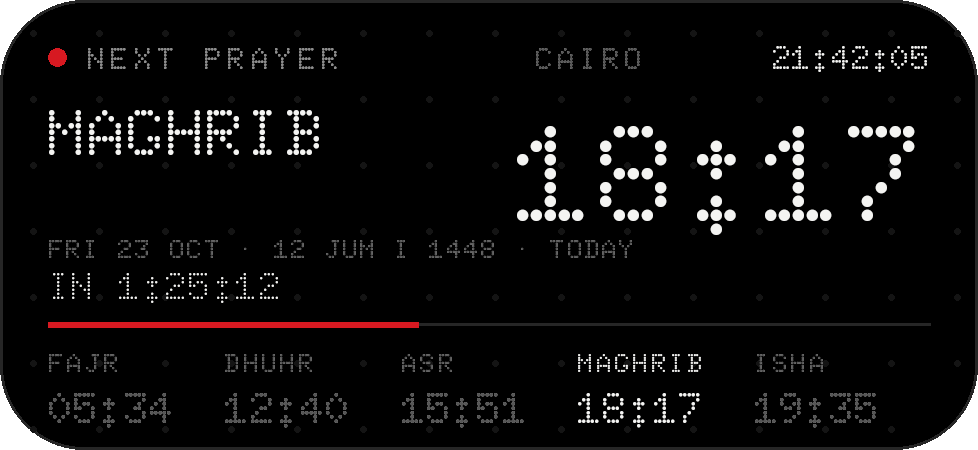
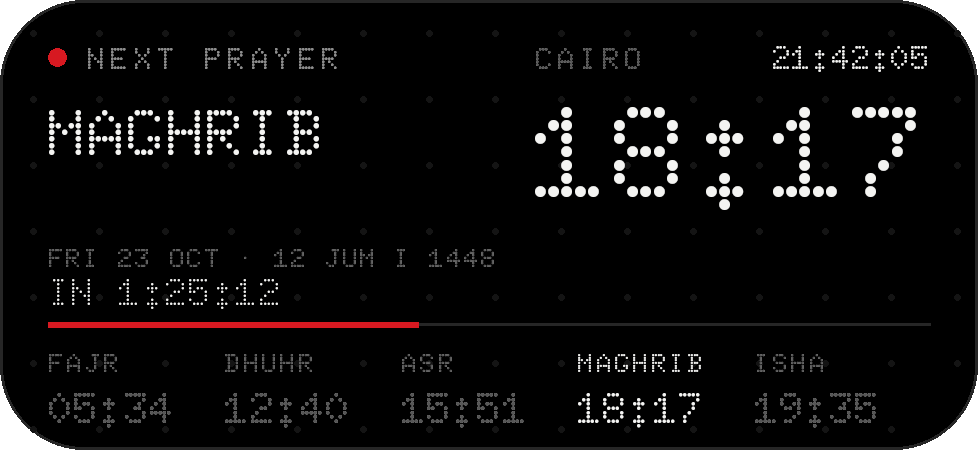
Widget: clean up hero layout and drop TODAY suffix

diff --git a/app/src/main/java/com/dotpray/app/widget/WidgetRenderer.java b/app/src/main/java/com/dotpray/app/widget/WidgetRenderer.java
@@ -105,9 +105,12 @@ public final class WidgetRenderer {
         // width. Lift the big next-prayer time above it instead of letting the
         // two overlap on the right.
         float nameBase = divider - ink.dp(56);
-        float clockBase = divider - ink.dp(34);
-        float metaBase = divider - ink.dp(22);
-        float countBase = divider - ink.dp(8);
+        // Keep the hero time slightly above the meta line. The meta line is
+        // allowed to run under it horizontally, so it needs a clear vertical
+        // gap rather than a shorter string.
+        float clockBase = divider - ink.dp(42);
+        float metaBase = divider - ink.dp(19);
+        float countBase = divider - ink.dp(6);
 
         c.drawCircle(pad + ink.dp(3), ink.dp(19), ink.dp(3), ink.fill(ACCENT));
         ink.text("NEXT PRAYER", pad + ink.dp(13), header,
@@ -130,7 +133,7 @@ public final class WidgetRenderer {
         Live countdownSeconds = countdownLine(ink, snapshot, now, pad, countBase, 13f,
                 liveSeconds, scale, offsetX, offsetY);
 
-        float clockSize = 46;
+        float clockSize = 44;
         String period = use24 ? "" : Format.meridiem(snapshot.next.local);
         String time = use24 ? Format.time24(snapshot.next.local)
                 : Format.time12(snapshot.next.local);
@@ -154,8 +157,8 @@ public final class WidgetRenderer {
             boolean active = prayers[i] == snapshot.next.prayer;
             PrayerCalculator.Entry entry = snapshot.today.get(i);
             // After Isha the next prayer is tomorrow's Fajr. Keep the strip
-            // useful by lighting its Fajr slot with that upcoming time; the
-            // hero's meta line above says TOMORROW.
+            // useful by lighting its Fajr slot with that upcoming time. The
+            // meta line already shows tomorrow's date.
             if (active && snapshot.nextIsTomorrow) entry = snapshot.next;
             ink.text(prayers[i].label.toUpperCase(Locale.US), x, divider + ink.dp(16),
                     ink.label(9), active ? ink.fg : ink.faint, 0.08f, Paint.Align.LEFT);
@@ -331,10 +334,9 @@ public final class WidgetRenderer {
         String date = DateTimeFormatter.ofPattern("EEE d MMM", Locale.US)
                 .format(snapshot.next.local).toUpperCase(Locale.US);
         String hijri = hijri(snapshot);
-        String status = snapshot.nextIsTomorrow ? "TOMORROW" : "TODAY";
-        return hijri.isEmpty()
-                ? date + " \u00b7 " + status
-                : date + " \u00b7 " + hijri + " \u00b7 " + status;
+        // No TODAY / TOMORROW suffix: it ran under the hero time and made the
+        // line feel crowded. Tomorrow is already clear from the date itself.
+        return hijri.isEmpty() ? date : date + " \u00b7 " + hijri;
     }
 
     private static String smallMeta(PrayerClock.Snapshot snapshot) {

diff --git a/tools/render_preview.py b/tools/render_preview.py
@@ -284,7 +284,7 @@ def render_app(path=None):
     spaced(dr, (W // 2, y), "Calculated on device · No ads · No tracking",
            f_label_faint, FG_FAINT, 0.14, anchor="ma")
     y += d(20)
-    spaced(dr, (W // 2, y), "DOTPRAY 1.1 · DOTO (OFL)",
+    spaced(dr, (W // 2, y), "DOTPRAY 1.7 · DOTO (OFL)",
            f_label_faint, FOOTER, 0.14, anchor="ma")
 
     path = path or os.path.join(OUT_DIR, "app-screen.png")
@@ -357,15 +357,15 @@ def render_widget_wide(width_dp=326, height_dp=150, path=None, drawable=None):
     header = d(23)
     divider = DH - d(42)
     name_base = divider - d(56)
-    clock_base = divider - d(34)
-    meta_base = divider - d(22)
-    count_base = divider - d(8)
+    clock_base = divider - d(42)
+    meta_base = divider - d(19)
+    count_base = divider - d(6)
 
     f_10b = doto("bold", 10)
     f_9b = doto("bold", 9)
     f_11b = doto("bold", 11)
     f_22 = doto("bold", 22)
-    f_46 = doto("bold", 46)
+    f_44 = doto("bold", 44)
     f_14 = doto("bold", 14)
     f_13 = doto("regular", 13)
 
@@ -375,10 +375,10 @@ def render_widget_wide(width_dp=326, height_dp=150, path=None, drawable=None):
     _spaced_px(cd, (DW - pad, header), "21:42:05", f_11b, d(11), FG, 0.0, "right")
 
     cd.text((pad, name_base), "MAGHRIB", font=f_22, fill=FG, anchor="ls")
-    _spaced_px(cd, (pad, meta_base), "FRI 23 OCT · 12 JUM I 1448 · TODAY",
+    _spaced_px(cd, (pad, meta_base), "FRI 23 OCT · 12 JUM I 1448",
                f_9b, d(9), FG_FAINT, 0.04)
     _spaced_px(cd, (pad, count_base), "IN 1:25:12", f_13, d(13), FG, 0.0)
-    cd.text((DW - pad, clock_base), "18:17", font=f_46, fill=FG, anchor="rs")
+    cd.text((DW - pad, clock_base), "18:17", font=f_44, fill=FG, anchor="rs")
 
     # progress hairline
     cd.line([pad, divider, DW - pad, divider], fill=CARD_LINE, width=max(1, d(1)))

diff --git a/README.md b/README.md
@@ -20,7 +20,7 @@ No ads, no tracking, no AndroidX. The app has no `INTERNET` permission.
 (`tools/render_preview.py`), not screenshots. The app and both widgets share
 the in-app System / Light / Dark choice.*
 
-*Version 1.6 — dotted live seconds and Umm al-Qura dates.*
+*Version 1.7 — cleaner widget hero, dotted live seconds and Umm al-Qura dates.*
 
 ---
 
@@ -59,7 +59,7 @@ build it locally with `./build.sh`:
 
 ```bash
 ./build.sh
-adb install -r dist/dotpray-1.6.apk
+adb install -r dist/dotpray-1.7.apk
 ```
 
 Or copy the built APK to the phone and open it (you will need to allow
@@ -114,7 +114,7 @@ Requirements:
 | Build tools | `37.0.0` |
 | minSdk / targetSdk | 26 / 35 |
 
-Output: `dist/dotpray-1.6.apk`, signed with a debug key that is generated on
+Output: `dist/dotpray-1.7.apk`, signed with a debug key that is generated on
 first run at `keystore/dotpray.keystore` (outside `build/`, so rebuilds keep the
 same certificate and new versions install over old ones).
 
@@ -204,7 +204,7 @@ dotpray/
 │   ├── gen_live_digits.py       traces Doto digits into widget vector drawables
 │   ├── make_icons.py            regenerates launcher icons from the SVG
 │   └── render_preview.py        renders preview/*.png from the real layouts
-└── dist/dotpray-1.6.apk
+└── dist/dotpray-1.7.apk
 ```
 
 ### Design details
